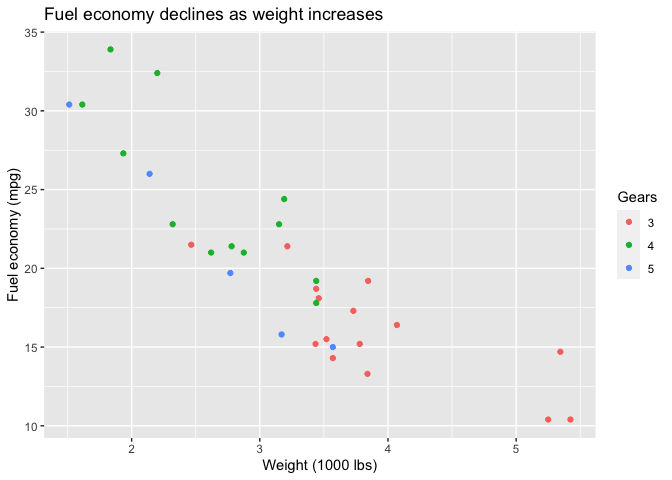
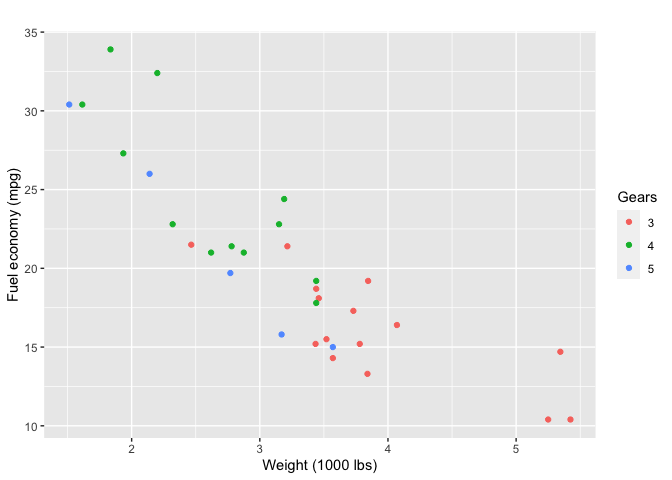
Update Readme

Changed region(s): [[0.0625, 0.0, 0.5625, 0.0625]]

diff --git a/README.md b/README.md
@@ -32,7 +32,7 @@ mtcars$gear <- as.factor(mtcars$gear)
 p1 <- ggplot(mtcars) +
 geom_point(aes(x = wt, y = mpg, colour = gear)) +
 labs(
-title = "Fuel economy declines as weight increases",
+title = "",
   x = "Weight (1000 lbs)",
   y = "Fuel economy (mpg)",
   colour = "Gears"
